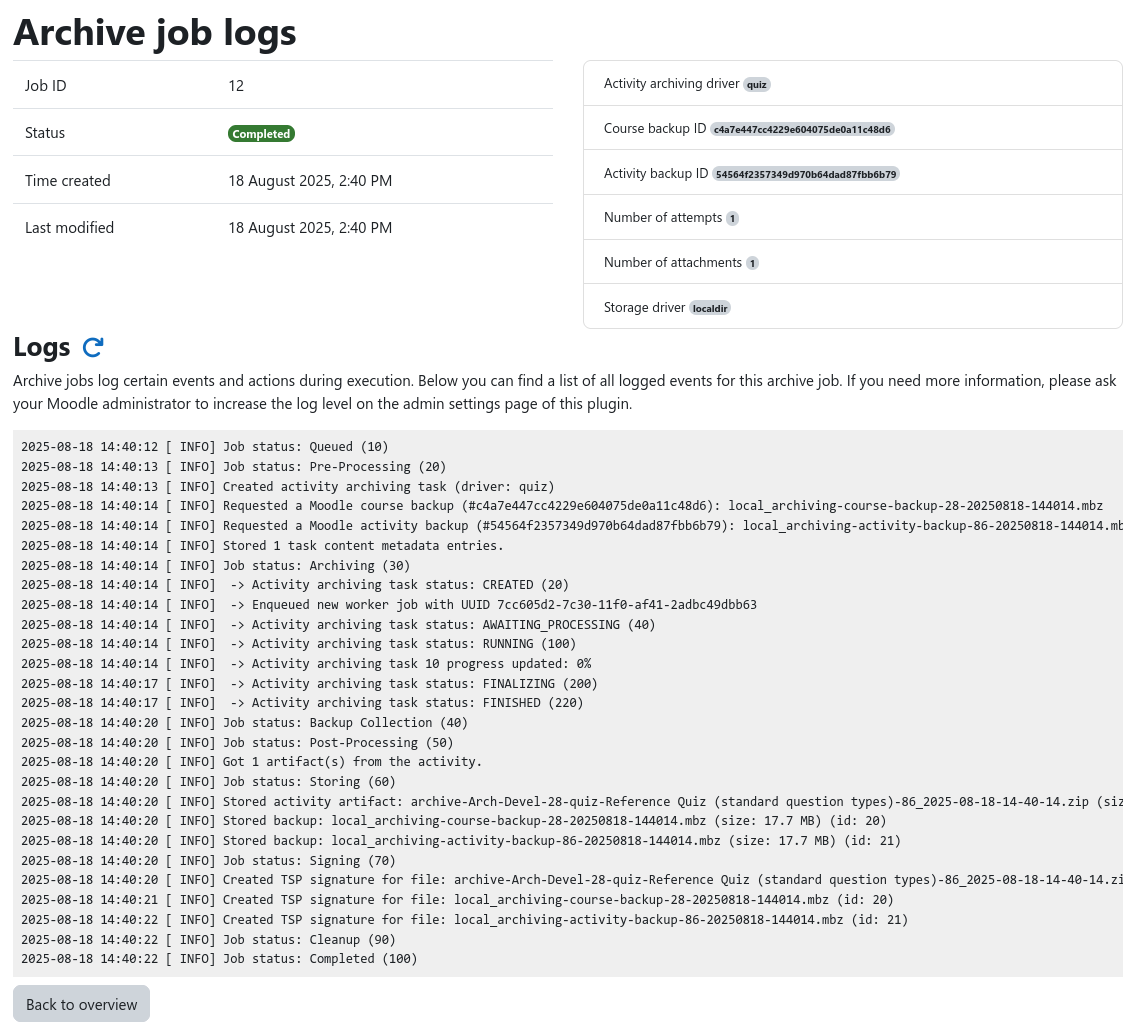
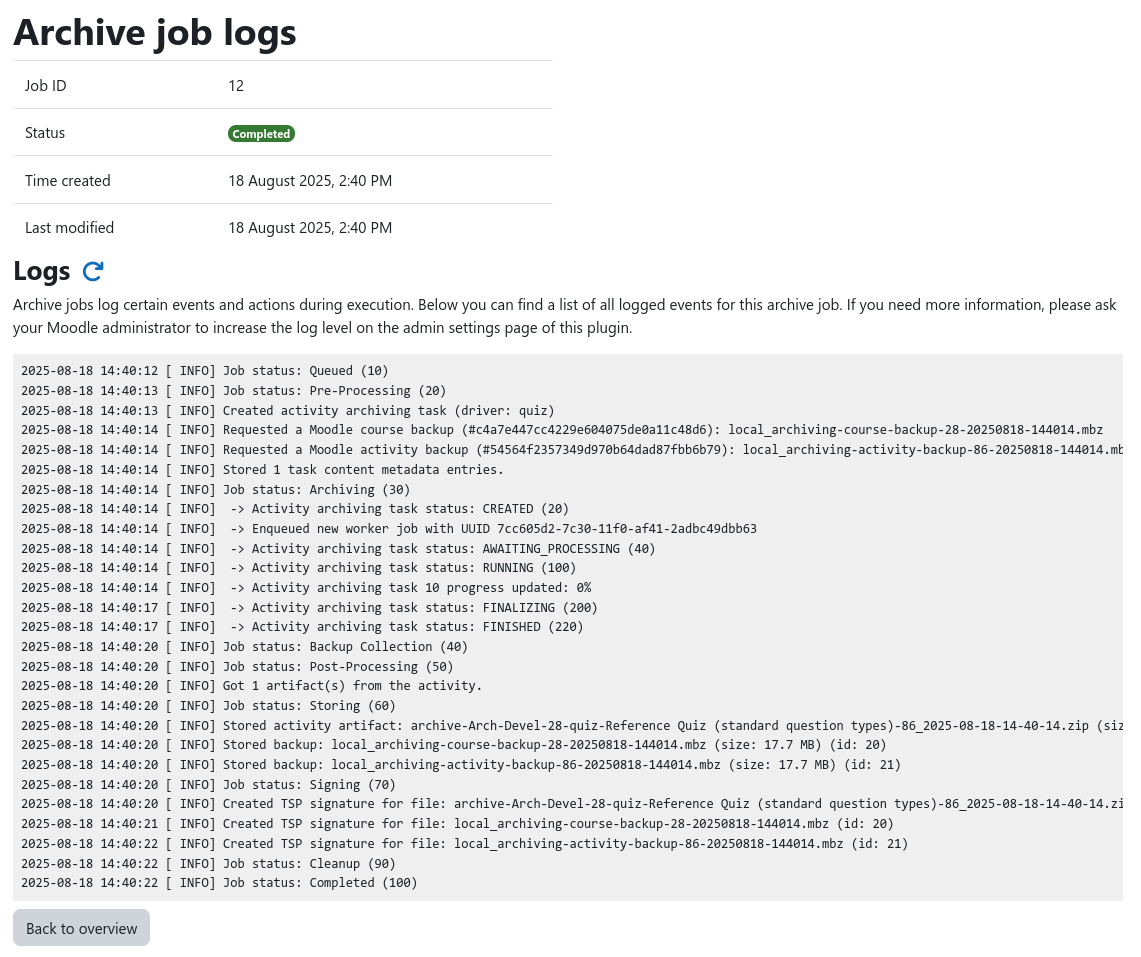
docs: Update relevant screenshots

diff --git a/docs/screenshots.md b/docs/screenshots.md
@@ -26,6 +26,9 @@ This section contains screenshots of the pages that are visible to trainers and 
 ### Downloading archived data
 ![Screenshot of the artifact download page](assets/screenshots/course_quiz_archive_download_artifacts.png)
 
+### Archive job details
+![Screenshot of the archive job details page](assets/screenshots/course_archive_job_details.png)
+
 ### Inspecting archive job logs
 ![Screenshot of the archive job log inspection page](assets/screenshots/course_archive_job_logs.png)
 
